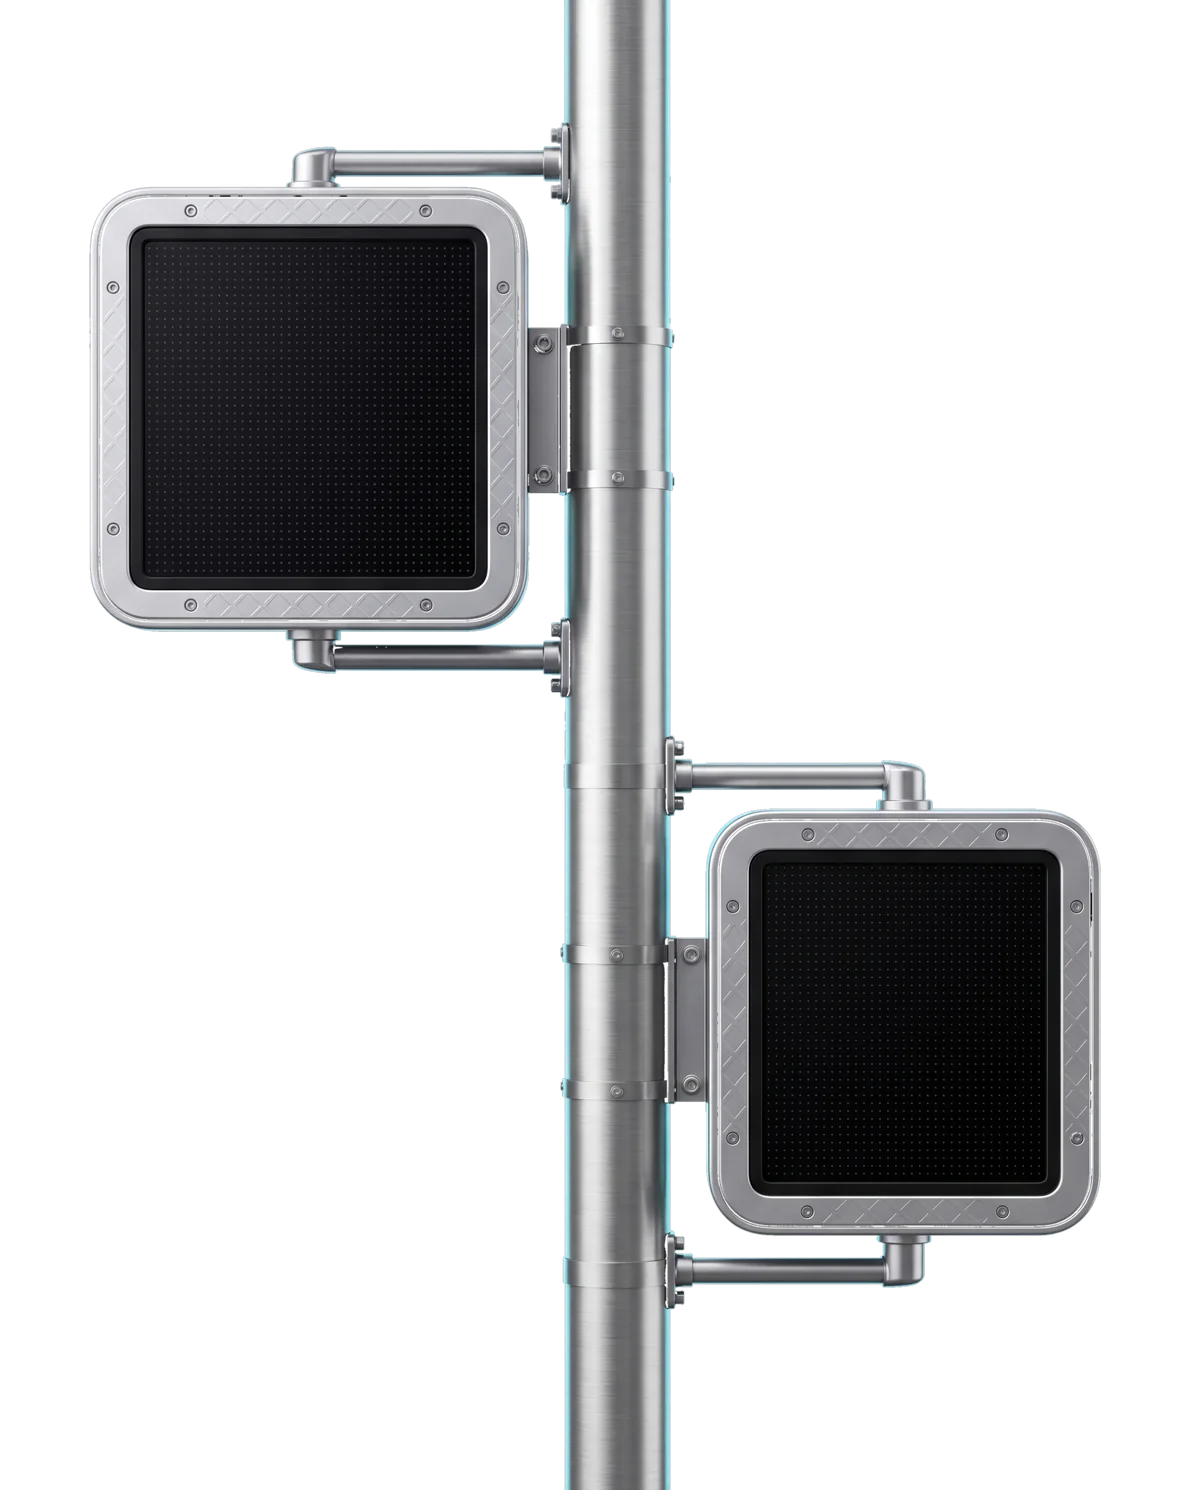
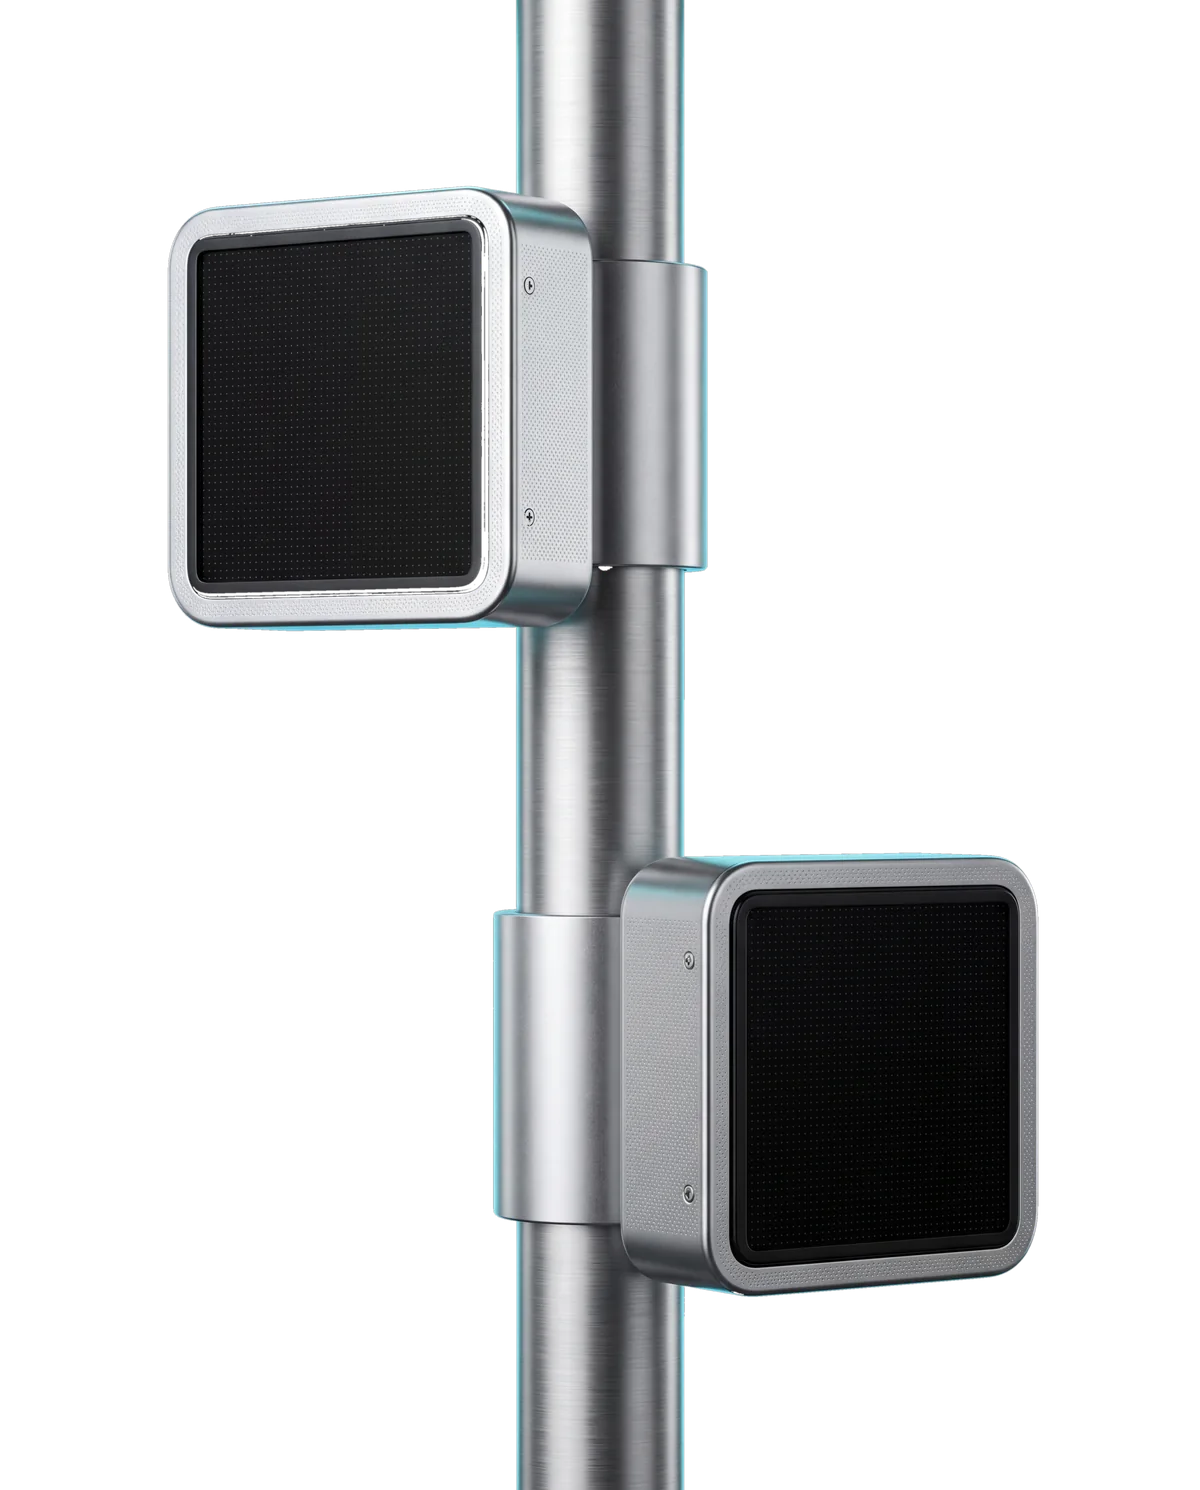
Новый 3D-рендер светофора: толстый столб, крупные экраны, плавный переход столба

Changed region(s): [[0.0617, 0.0, 0.925, 1.0]]

diff --git a/css/styles.css b/css/styles.css
@@ -505,8 +505,8 @@ p {
 }
 
 .sign {
-	--pole-left: 46.75%;
-	--pole-width: 9.333%;
+	--pole-left: 42.667%;
+	--pole-width: 14.667%;
 	position: relative;
 	width: min(100%, 500px);
 	aspect-ratio: 1200 / 1490;
@@ -523,17 +523,20 @@ p {
 }
 
 .sign::before {
-	bottom: calc(100% - 1px);
+	bottom: 90%;
 }
 
 .sign::after {
-	top: calc(100% - 1px);
+	top: 90%;
 }
 
+/* края рендера растворяются в продолжении столба — без шва */
 .sign__img {
 	position: relative;
 	width: 100%;
 	height: 100%;
+	-webkit-mask-image: linear-gradient(to bottom, transparent 0, #000 9%, #000 91%, transparent 100%);
+	mask-image: linear-gradient(to bottom, transparent 0, #000 9%, #000 91%, transparent 100%);
 }
 
 /* координаты экранов на рендере 3712×4608 */
@@ -541,21 +544,21 @@ p {
 	position: absolute;
 	overflow: hidden;
 	background: #0b0b0c;
-	border-radius: 4%;
+	border-radius: 6% / 5%;
 }
 
 .sign__screen--top {
-	left: 10.78%;
-	top: 15.19%;
-	width: 29.85%;
-	height: 24.41%;
+	left: 16.35%;
+	top: 15.49%;
+	width: 23.01%;
+	height: 23.63%;
 }
 
 .sign__screen--bottom {
-	left: 62.42%;
-	top: 57.03%;
-	width: 25.92%;
-	height: 23.2%;
+	left: 60.78%;
+	top: 59.38%;
+	width: 24.19%;
+	height: 25.72%;
 }
 
 .sign__screen canvas {
@@ -2384,7 +2387,7 @@ input[type="range"]::-moz-range-thumb {
 		width: min(100%, 360px);
 	}
 	.sign::after {
-		height: 33px;
+		height: calc(10% + 33px);
 	}
 	.hero__content {
 		padding-bottom: 56px;
@@ -2462,7 +2465,7 @@ input[type="range"]::-moz-range-thumb {
 		width: min(78%, 300px);
 	}
 	.sign::after {
-		height: 25px;
+		height: calc(10% + 25px);
 	}
 	.hero__content {
 		padding-bottom: 40px;

diff --git a/index.html b/index.html
@@ -78,8 +78,8 @@
 			<div class="hero__media" aria-hidden="true">
 				<div class="sign">
 					<img class="sign__img" src="assets/img/signpost.webp" alt="" width="1200" height="1490" decoding="async" fetchpriority="high">
-					<div class="sign__screen sign__screen--top"><canvas data-led="flowers" width="512" height="520"></canvas></div>
-					<div class="sign__screen sign__screen--bottom"><canvas data-led="courier" width="512" height="569"></canvas></div>
+					<div class="sign__screen sign__screen--top"><canvas data-led="flowers" width="512" height="653"></canvas></div>
+					<div class="sign__screen sign__screen--bottom"><canvas data-led="courier" width="512" height="676"></canvas></div>
 				</div>
 			</div>
 		</div>
